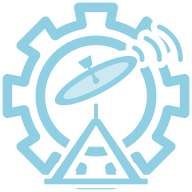
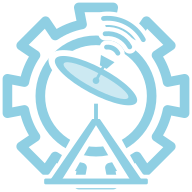
The dish faces its signal (#136)
## Summary

The brand's dish glyph aimed up and to the left while its signal arcs
sat at the upper right. The set was redrawn in Claude Design ("Dish Ray
Alignment", variant B, move the dish): the reflector is mirrored to +28°
and the arcs become concentric on the feed horn, aimed down the
boresight. Base, pole and gear are unchanged.

- The eight state glyphs under `web/img/icons` are the design's files
with their C2PA provenance `<metadata>` block removed. The dashboard
draws `dish-scanning-animated.svg` while linking and
`dish-receiving-animated.svg` while active; their static fallbacks now
hold the 28° pose with the three arcs, where the stripped files used to
show a horizontal dish and a bare one.
- `satellite_dish.svg` stays a copy of `dish.svg`, as before.
- `web/img/dish-icon.png` is re-rendered from the new mark with the
website's sharp pipeline, same size as before.
- CHANGELOG: the Unreleased opener names the glyph and a paragraph
describes the change.

The same change lands in the other four repos on a branch of the same
name (`feat/dish-faces-its-signal`); the eight glyph files are
byte-identical across them.

Changed region(s): [[0.25, 0.0312, 0.9688, 0.5625]]

diff --git a/CHANGELOG.md b/CHANGELOG.md
@@ -6,8 +6,13 @@ The protocol itself is specified in [`docs/contract.md`](docs/contract.md).
 ## Unreleased
 
 No protocol changes. Feedback on a ViGEm pad, a relaunched client's pad
-state, a crash a paired client could cause, the vendored components, and
-the HIDMaestro SDK a locally built installer ships.
+state, a crash a paired client could cause, the vendored components, the
+HIDMaestro SDK a locally built installer ships, and the dashboard's dish
+glyph.
+
+The dashboard's dish glyphs aimed up and to the left while their signal
+arcs sat at the upper right. The reflector now faces the signal in every
+state, and the Dish icon the dashboard shows for a paired phone follows.
 
 Two of the three ViGEm personas never carried a game's feedback right. The
 DS4 persona asked the driver for its notifications with a read-write request
